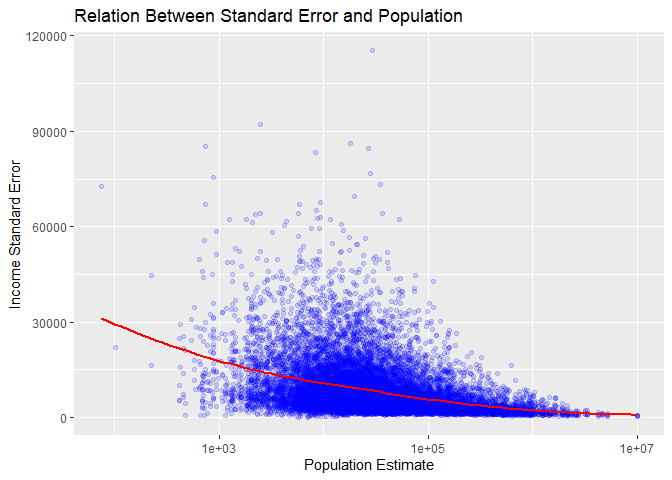
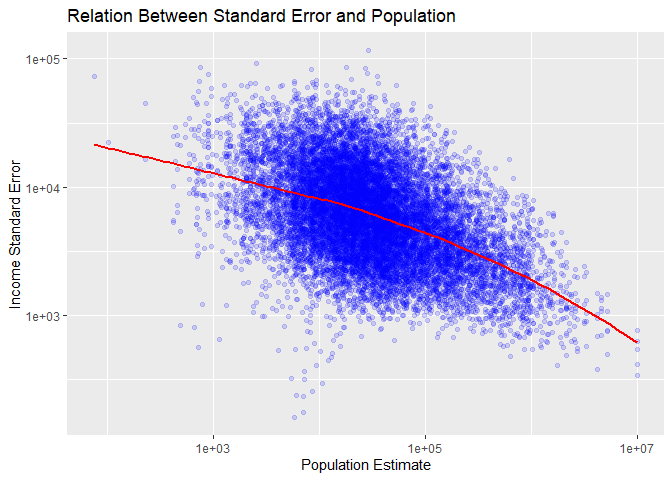
Resubmitted Challenge 9

diff --git a/challenges/c09-income-assignment.md b/challenges/c09-income-assignment.md
@@ -1,7 +1,7 @@
 US Income
 ================
 Katherine Danielson
-04-03-2025
+04-03-2025 Resubmitted 04-14-2025
 
 - [Grading Rubric](#grading-rubric)
   - [Individual](#individual)
@@ -604,6 +604,7 @@ df_data %>%
   geom_point(alpha = 0.15, color = "blue") +
   geom_smooth(method = "loess", color = "red", se = FALSE) +  # Trend line
   scale_x_log10() +
+  scale_y_log10() +
   labs(
     title = "Relation Between Standard Error and Population", 
     x = "Population Estimate",
